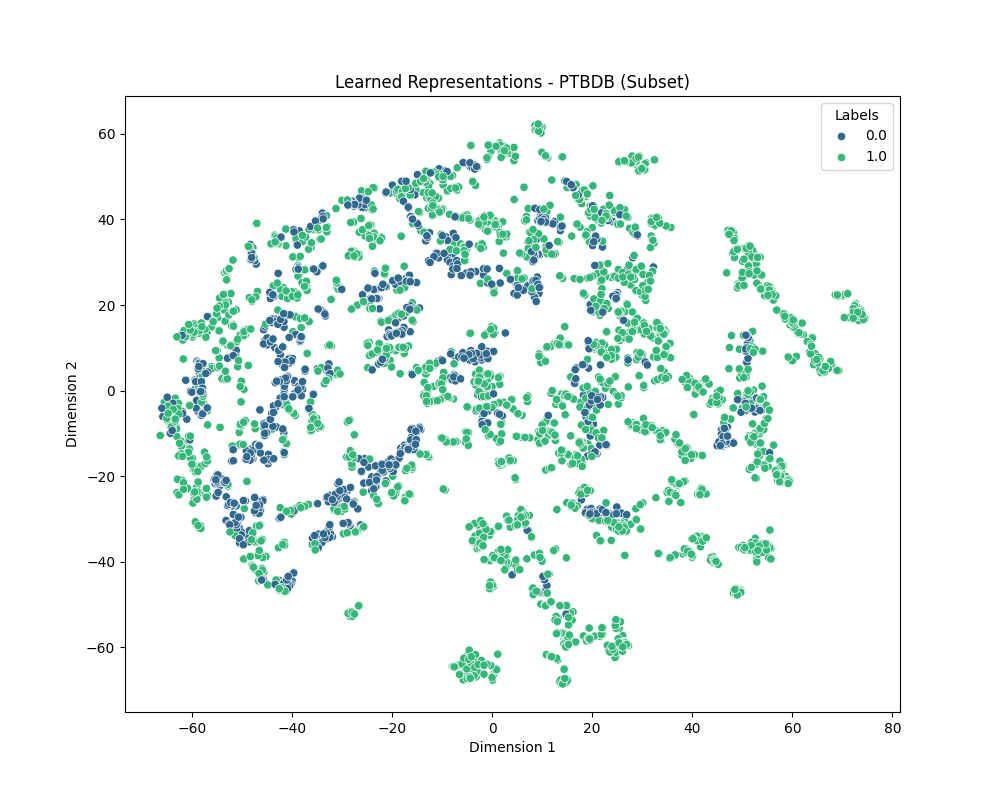
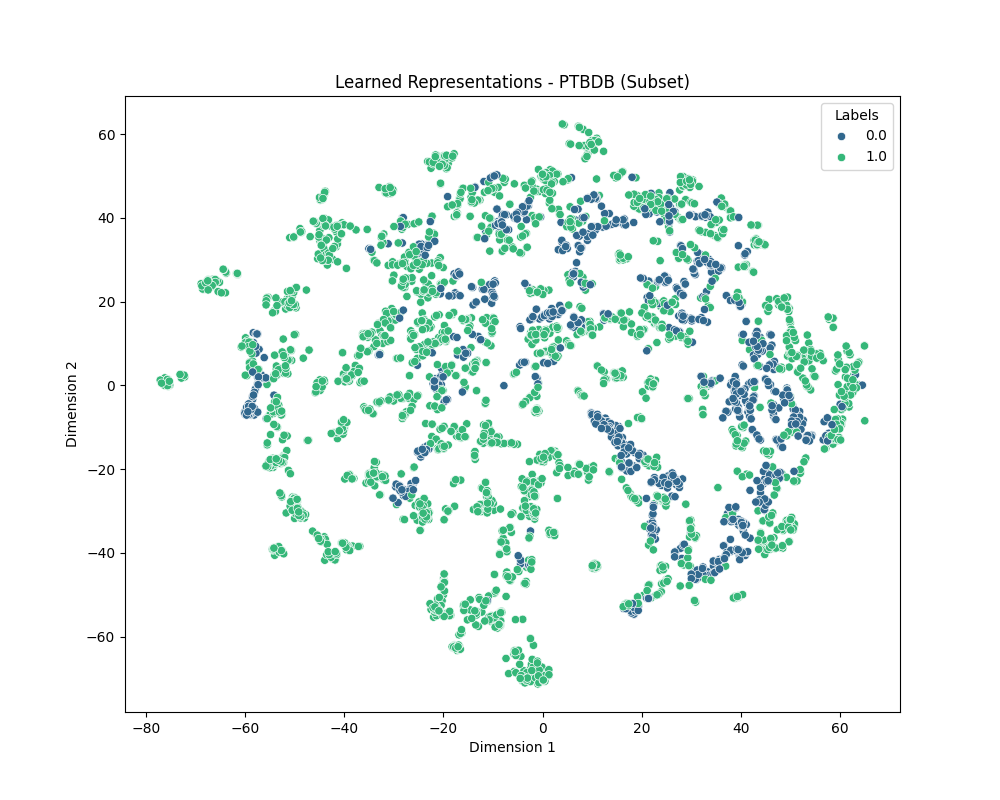
current code

diff --git a/src/part2/viz_encoders.py b/src/part2/viz_encoders.py
@@ -199,7 +199,7 @@ if __name__ == "__main__":
 
     # Build and train the full ResNet model
     resnet_model = build_resnet_cnn(input_shape, num_classes=n_classes)
-    fit_model(resnet_model, X_train_mitbih_reshaped, y_train_mitbih_encoded, epochs=1)
+    fit_model(resnet_model, X_train_mitbih_reshaped, y_train_mitbih_encoded, epochs=5)
 
     # Extract the encoder from the trained ResNet model
     resnet_encoder = extract_encoder(resnet_model, input_shape)
@@ -227,7 +227,7 @@ if __name__ == "__main__":
         metrics=['accuracy', AUC(name='auc'), AUC(name='auprc', curve='PR'), Precision(name='precision'), Recall(name='recall')])
 
     autoencoder.fit(X_train_mitbih_reshaped, X_train_mitbih_reshaped,
-                    epochs=1,
+                    epochs=5,
                     batch_size=256,
                     shuffle=True,
                     validation_split=0.1)
@@ -237,9 +237,9 @@ if __name__ == "__main__":
     print(X_train_mitbih_subset.shape, y_train_mitbih_subset.shape)
     # Plot both datasets vis t-SNE | color = dataset
     X_train_combined = np.vstack((X_train_mitbih_subset, X_train_ptbdb_subset))
-    mitbih_labels = np.zeros((X_train_mitbih_subset.shape[0], ))  # 0 for mitbih
-    ptbdb_labels = np.ones((X_train_ptbdb_subset.shape[0], ))     # 1 for ptbdb
-
+    mitbih_labels = np.zeros((X_train_mitbih_subset.shape[0], 1))  # 0 for mitbih
+    ptbdb_labels = np.ones((X_train_ptbdb_subset.shape[0], 1))     # 1 for ptbdb
+    print(mitbih_labels.shape, ptbdb_labels.shape)
     # Stack the binary labels vertically
     y_indicator = np.vstack((mitbih_labels, ptbdb_labels))
     y_indicator = y_indicator.flatten()
